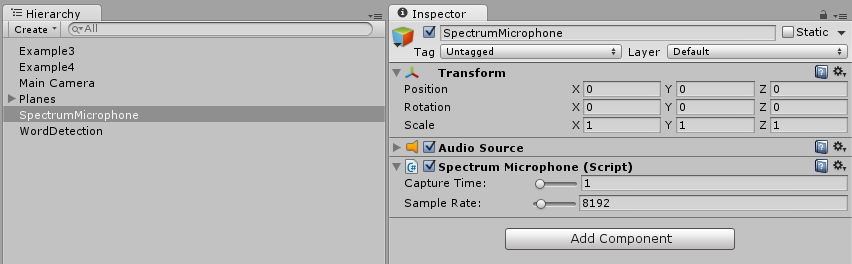
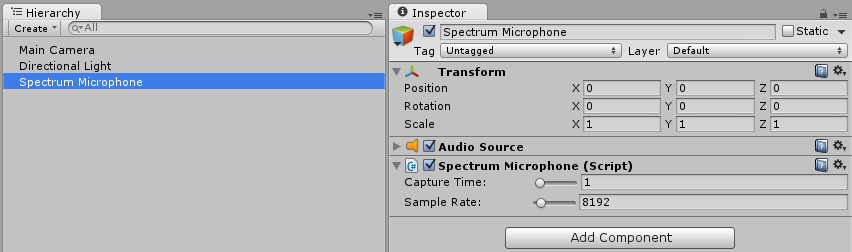
Updating screenshots as I follow along

diff --git a/Word-Detection.md b/Word-Detection.md
@@ -191,6 +191,8 @@ You can send comments/questions to support@theylovegames.com where your feedback
 
 4) At a minimum you'll need a script that has a word detection callback. Create an `Example18` GameObject in the scene and attach the `Example18` script. You can use your own script and GameObject name as you follow along. Be sure to set the `_mWordDetection` field with a reference to the `WordDetection` object in the scene. This script adds the initial `Noise` profile for filtering out background noise. Word profiles also have to be initialized before they can be used in detection.
 
+![image-3](Word-Detection/image_3.png)
+
 ```
 using UnityEngine;
 
